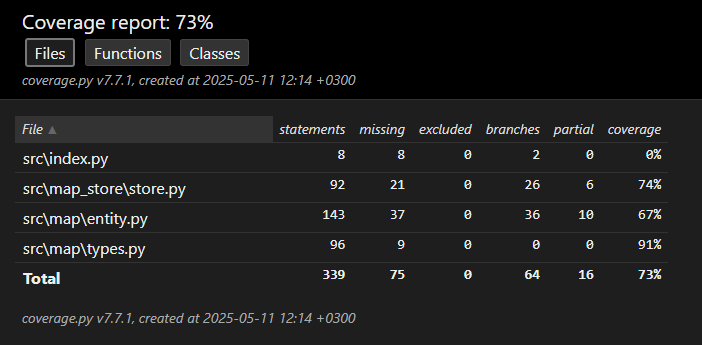
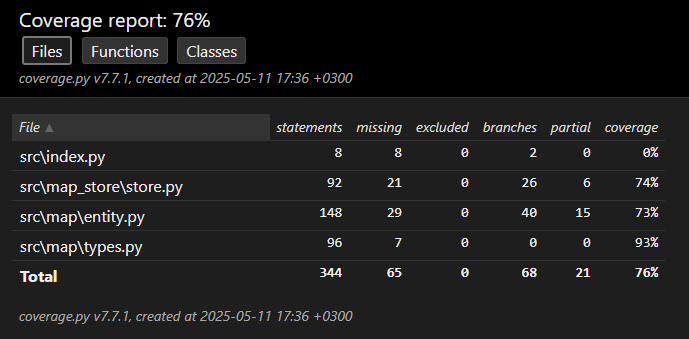
chore: update testing document

diff --git a/dokumentaatio/testaus.md b/dokumentaatio/testaus.md
@@ -11,7 +11,7 @@ Testiluokassa on automaattinen `tearDown`-metodi, joka poistaa testeissä käyte
 Varsinaisesta sisällön muokaamisesta vastaavaa `Map`-luokkaa testaataan `TestMap`-testiluokalla. Tämäkin testiluokka hyödyntää väliaikaisia tiedostoja levyllä. Testeissä käydään läpi keskeisemmät ominaisuudet, kuten elementtien listaus, luonti ja poistaminen. Lisäksi testataan erikseen `Asset`-olioiden luonti (kuvaavat liitteitä, kuten taustakuvia)
 
 **Testikattavuus**
-Ilman käyttöliittymätestejä, sovelluksen testauksen haaraumakattavuus on `73 %`.
+Ilman käyttöliittymätestejä, sovelluksen testauksen haaraumakattavuus on `76 %`.
 ![coverage](./testaus-kuvat/coverage.png)
 
 Testaamatta jäivät laajalti elementtien muokkaaminen.
